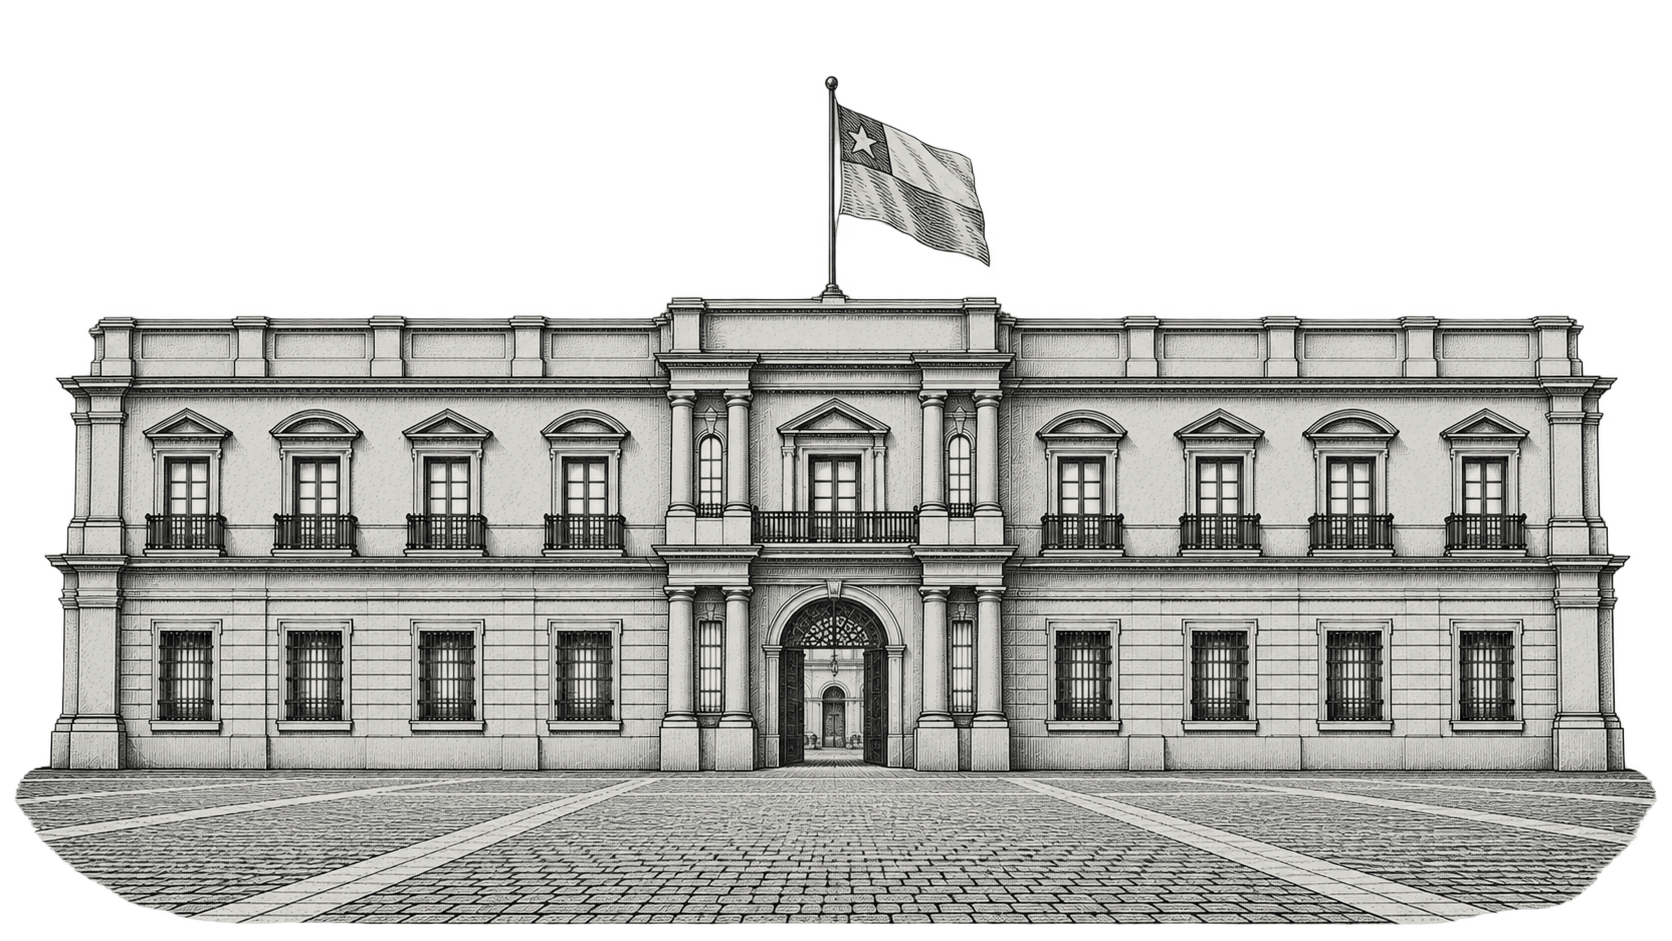
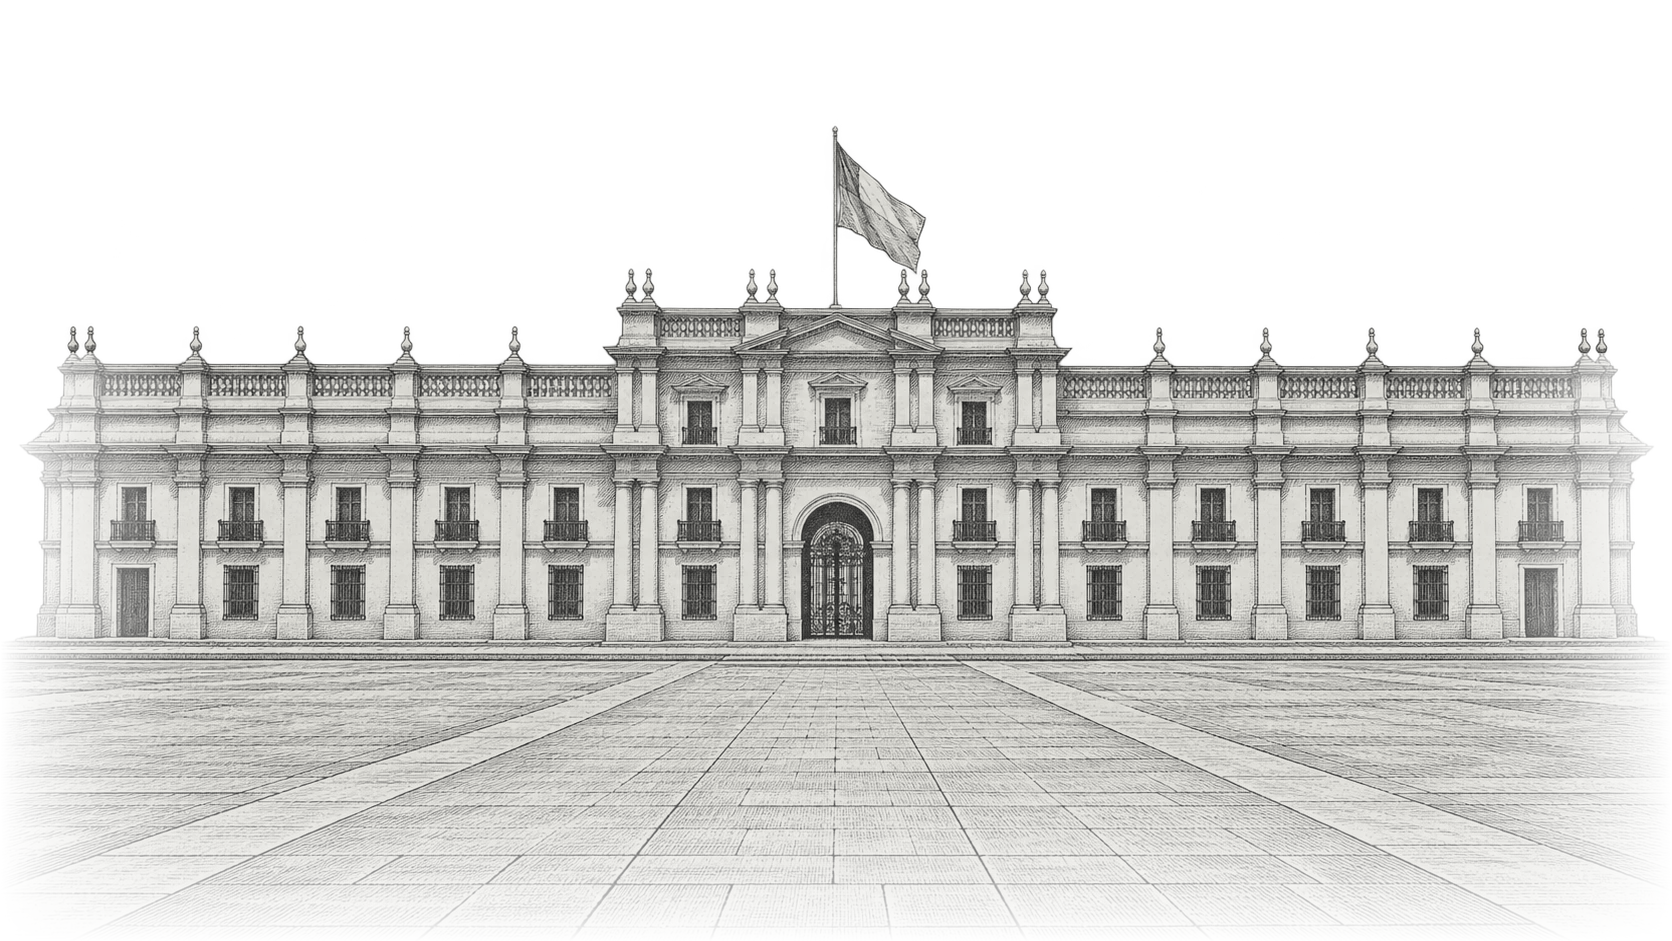
biblioteca: entra La Moneda buena, y el desvanecido del pie
La prueba que importaba salió: chat limpio, prompt solo, edificio correcto. Ya
no es la suerte de una conversación donde se había iterado.

El desvanecido es nuevo y hacía falta: la explanada llegaba al borde de abajo y
a los dos costados, y un suelo cortado en recto sobre el video oscuro se ve como
un recorte mal hecho. Se disuelve el alfa con curva suave, abajo y por los lados
solo en la zona del suelo. El dibujo no se toca, deja de existir de a poco.

Claude-Session: https://claude.ai/code/session_01L9oxLCKfBZJRqTuWWmnZcD

diff --git a/scripts/recortar-imagen.js b/scripts/recortar-imagen.js
@@ -269,6 +269,40 @@ const entintar = (px, hex) => {
   return px;
 };
 
+// DESVANECER EL PIE (29-09-2026). Una escena con suelo (una explanada, una
+// calle, un piso) termina donde termina el cuadro, y sobre el video oscuro ese
+// corte recto se ve: parece que la imagen quedó mal recortada. La solución no
+// es pedirle otra al generador, es disolver el alfa en la franja de abajo, que
+// es lo que hace sola una escena bien encuadrada.
+//
+// Se hace sobre el ALFA y no sobre el color: el dibujo no cambia, solo deja de
+// existir de a poco. Y va con curva suave, no lineal, para que el arranque del
+// desvanecido no se note como una línea.
+const desvanecerPie = (px, ancho, alto, porcentaje) => {
+  const franja = Math.max(1, Math.round(alto * (porcentaje / 100)));
+  const desde = alto - franja;
+  // el suelo no solo llega abajo: una explanada en perspectiva se sale también
+  // por los dos lados, y ahí el corte recto se ve igual. Los costados se
+  // disuelven solo en la zona del suelo, para no tocar el motivo de arriba.
+  const sueloDesde = Math.max(0, alto - Math.round(franja * 2.4));
+  const lado = Math.max(1, Math.round(franja * 1.1));
+  for (let y = 0; y < alto; y++) {
+    const kAbajo = y < desde ? 1 : 1 - ((y - desde) / franja) ** 2;
+    const enSuelo = y >= sueloDesde;
+    for (let x = 0; x < ancho; x++) {
+      let k = kAbajo;
+      if (enSuelo) {
+        const d = Math.min(x, ancho - 1 - x);
+        if (d < lado) k *= 1 - ((lado - d) / lado) ** 2;
+      }
+      if (k >= 1) continue;
+      const o = (y * ancho + x) * 4;
+      px[o + 3] = Math.round(px[o + 3] * Math.max(0, k));
+    }
+  }
+  return px;
+};
+
 const recortar = (entrada, salida, opciones = {}) => {
   // PISO 0,18 Y NO 0,10, medido: el fondo de los PNG generados no es parejo,
   // trae una viñeta muy suave, y con el piso bajo esa viñeta sobrevivía como
@@ -303,6 +337,7 @@ const recortar = (entrada, salida, opciones = {}) => {
         }
       }
       if (opciones.entintar) entintar(px, opciones.entintar);
+      if (opciones.desvanecer) desvanecerPie(px, png.ancho, png.alto, opciones.desvanecer);
       fs.writeFileSync(salida, escribirRGBA(png.ancho, png.alto, px));
       return { ancho: png.ancho, alto: png.alto, estilo: "ya venía recortada" + (opciones.entintar ? ", entintada" : ""),
         cubre: Number(((opacos / (png.ancho * png.alto)) * 100).toFixed(1)) };
@@ -312,6 +347,7 @@ const recortar = (entrada, salida, opciones = {}) => {
   if (opciones.modo === "borde") {
     const r = recortarPorBorde(png, plano, canales, paso, opciones);
     if (opciones.entintar) entintar(r.px, opciones.entintar);
+    if (opciones.desvanecer) desvanecerPie(r.px, png.ancho, png.alto, opciones.desvanecer);
     fs.writeFileSync(salida, escribirRGBA(png.ancho, png.alto, r.px));
     return { ancho: png.ancho, alto: png.alto, estilo: "borde",
       fondo: r.fondos.map((f) => "#" + f.map((c) => c.toString(16).padStart(2, "0")).join("")).join(" y "),
@@ -353,7 +389,7 @@ const recortar = (entrada, salida, opciones = {}) => {
     estilo: invertir ? "papel" : "oscuro" };
 };
 
-module.exports = { recortar, entintar, leerPNG, desfiltrar };
+module.exports = { recortar, entintar, desvanecerPie, leerPNG, desfiltrar };
 
 if (require.main === module) {
   const args = process.argv.slice(2);
@@ -364,6 +400,7 @@ if (require.main === module) {
     invertir: args.includes("--invertir") ? true : args.includes("--no-invertir") ? false : undefined,
     modo: valor("--modo", "luz"),
     forzar: args.includes("--forzar"),
+    desvanecer: Number(valor("--desvanecer", 0)) || 0,
     entintar: args.includes("--entintar") ? (valor("--entintar", "E8E7E1") || "E8E7E1").replace(/^#/, "") : null,
     duro: Number(valor("--duro", 0.05)), suave: Number(valor("--suave", 0.20)),
   };

diff --git a/bitacora/2026-09-29.md b/bitacora/2026-09-29.md
@@ -773,3 +773,33 @@ verificable desde acá, y hoy mismo dijo del damero "no debería haberlo hecho" 
 volvió a pasar. La instrucción vale la pena por lo que puede lograr, no porque
 la explicación sea comprobable. Se prueba mirando lo que vuelve, como todo lo
 demás.
+
+## El método funciona: chat limpio, prompt solo, La Moneda
+
+La prueba que importaba salió bien. Con el prompt nuevo, en una conversación
+nueva y sin referencia a mano, el edificio llegó correcto. Ya no es suerte de
+una conversación donde se había iterado: es el prompt.
+
+Entró a la biblioteca como `contenido/biblioteca/grabado/gobierno-a.png`, y pasa
+la puerta completa después de dos pasos que hace el recortador:
+
+    gobierno-a.png   PASA   (vara: Grabado)
+      ok   canal alfa           38.32% transparente
+      ok   sin damero pintado   limpio
+      ok   una sola tinta       saturación media 0.03
+      ok   tinta fría           cálida en 5 puntos
+      ok   sin color vivo       0%
+      ok   aire en los bordes   0% del marco está pintado
+      ok   medidas              1672x941, proporción 1.78 a 1
+
+**El desvanecido del pie es nuevo y hacía falta.** La explanada llegaba hasta el
+borde de abajo y hasta los dos costados (226 y 227 píxeles opacos en cada canto),
+y sobre el video oscuro un suelo cortado en recto se ve como un recorte mal
+hecho. Ahora el alfa se disuelve en la franja de abajo con una curva suave, y en
+la zona del suelo también por los costados, que es donde una explanada en
+perspectiva se sale. El dibujo no se toca: deja de existir de a poco.
+
+Los dos pasos que necesita cualquier imagen de este estilo quedan así:
+
+    node scripts/recortar-imagen.js entrada.png salida.png --entintar E8E7E1 --desvanecer 26
+    node scripts/revisar-imagen.js salida.png --estilo grabado
